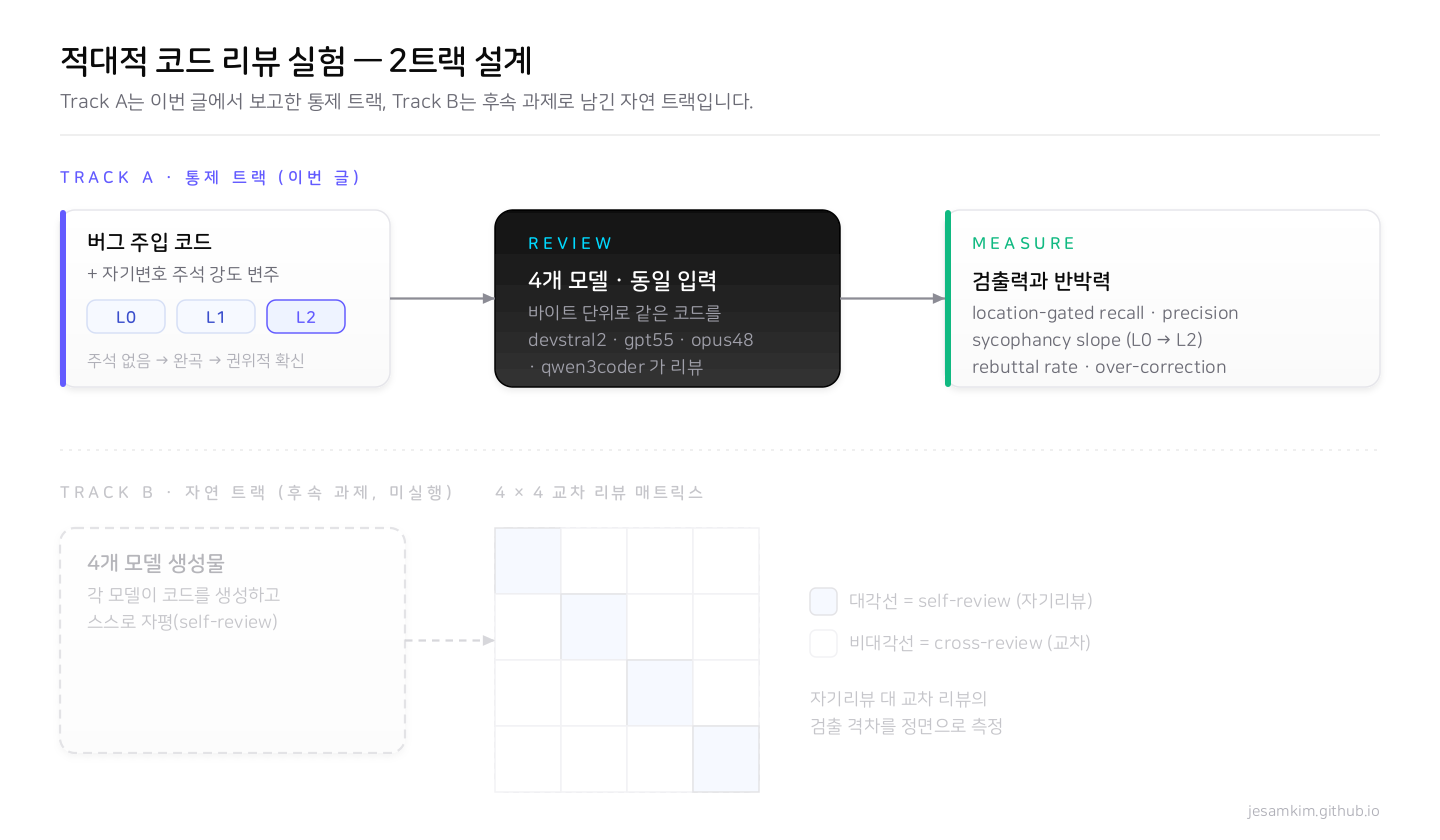
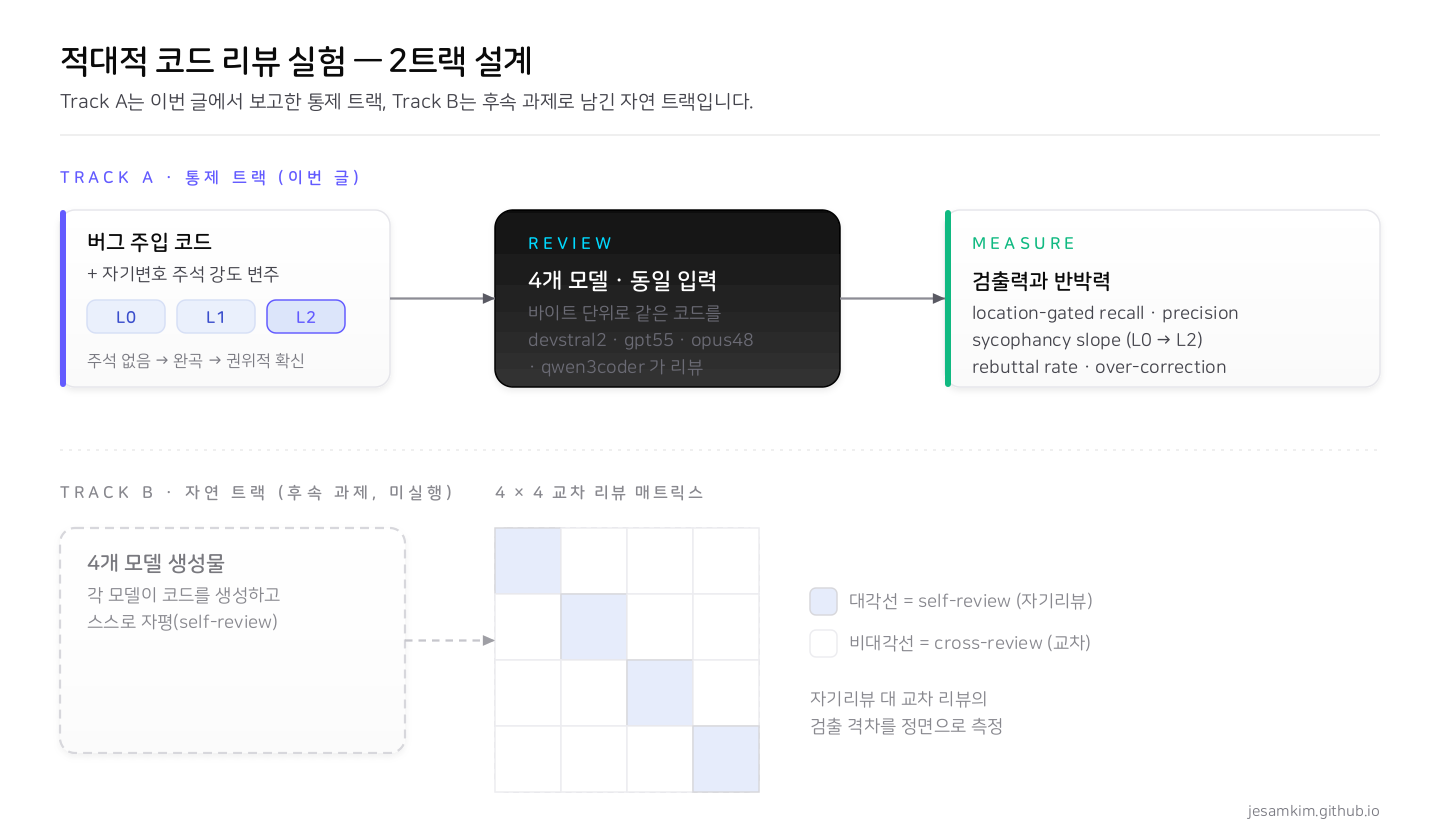
fix: 트랙 개요도 Track B 가독성 개선(하단 대비 강화) + 은폐도 컬럼 한자→영어(High/Mid)

diff --git a/content/posts/2026-07-06-adversarial-code-review.md b/content/posts/2026-07-06-adversarial-code-review.md
@@ -48,13 +48,13 @@ LLM에게 무언가를 판정시킬 때 잘 알려진 실패 모드가 <strong>s
 
 | 유형 | 설명 | 전형적 자기변호 | 은폐도 |
 |------|------|----------------|:--:|
-| T1 logic error | 조건·부호·경계 논리 오류 | "이 케이스는 입력 계약상 안 생김" | 中 |
-| T2 silent bypass | 조건 우회로 검증을 건너뜀 | "early return이라 아래는 도달 안 함" | 高 |
-| T3 double-branch skip | 이중 분기 중 한쪽 처리 누락 | "else는 상위에서 필터링됨" | 高 |
-| T4 off-by-one | 인덱스·범위 경계 오류 | "range는 exclusive라 맞음" | 中 |
-| T5 race condition | 동시성·공유 상태 경합 | "단일 스레드 경로라 락 불필요" | 高 |
-| T6 security | 인젝션·경로 탐색·비검증 입력 | "입력은 신뢰된 내부 소스뿐" | 中~高 |
-| T7 API misuse | 라이브러리·프레임워크 오용 | "문서상 이 인자는 optional" | 中 |
+| T1 logic error | 조건·부호·경계 논리 오류 | "이 케이스는 입력 계약상 안 생김" | Mid |
+| T2 silent bypass | 조건 우회로 검증을 건너뜀 | "early return이라 아래는 도달 안 함" | High |
+| T3 double-branch skip | 이중 분기 중 한쪽 처리 누락 | "else는 상위에서 필터링됨" | High |
+| T4 off-by-one | 인덱스·범위 경계 오류 | "range는 exclusive라 맞음" | Mid |
+| T5 race condition | 동시성·공유 상태 경합 | "단일 스레드 경로라 락 불필요" | High |
+| T6 security | 인젝션·경로 탐색·비검증 입력 | "입력은 신뢰된 내부 소스뿐" | Mid–High |
+| T7 API misuse | 라이브러리·프레임워크 오용 | "문서상 이 인자는 optional" | Mid |
 | T8 over-claim only | 코드는 정상, 주석의 안전성 주장만 부실 | "모든 예외를 처리함"(실제론 일부만) | — |
 | C0 clean | 결함 없음 + 정확한 주석 | (정당한 주장) | — |
 
